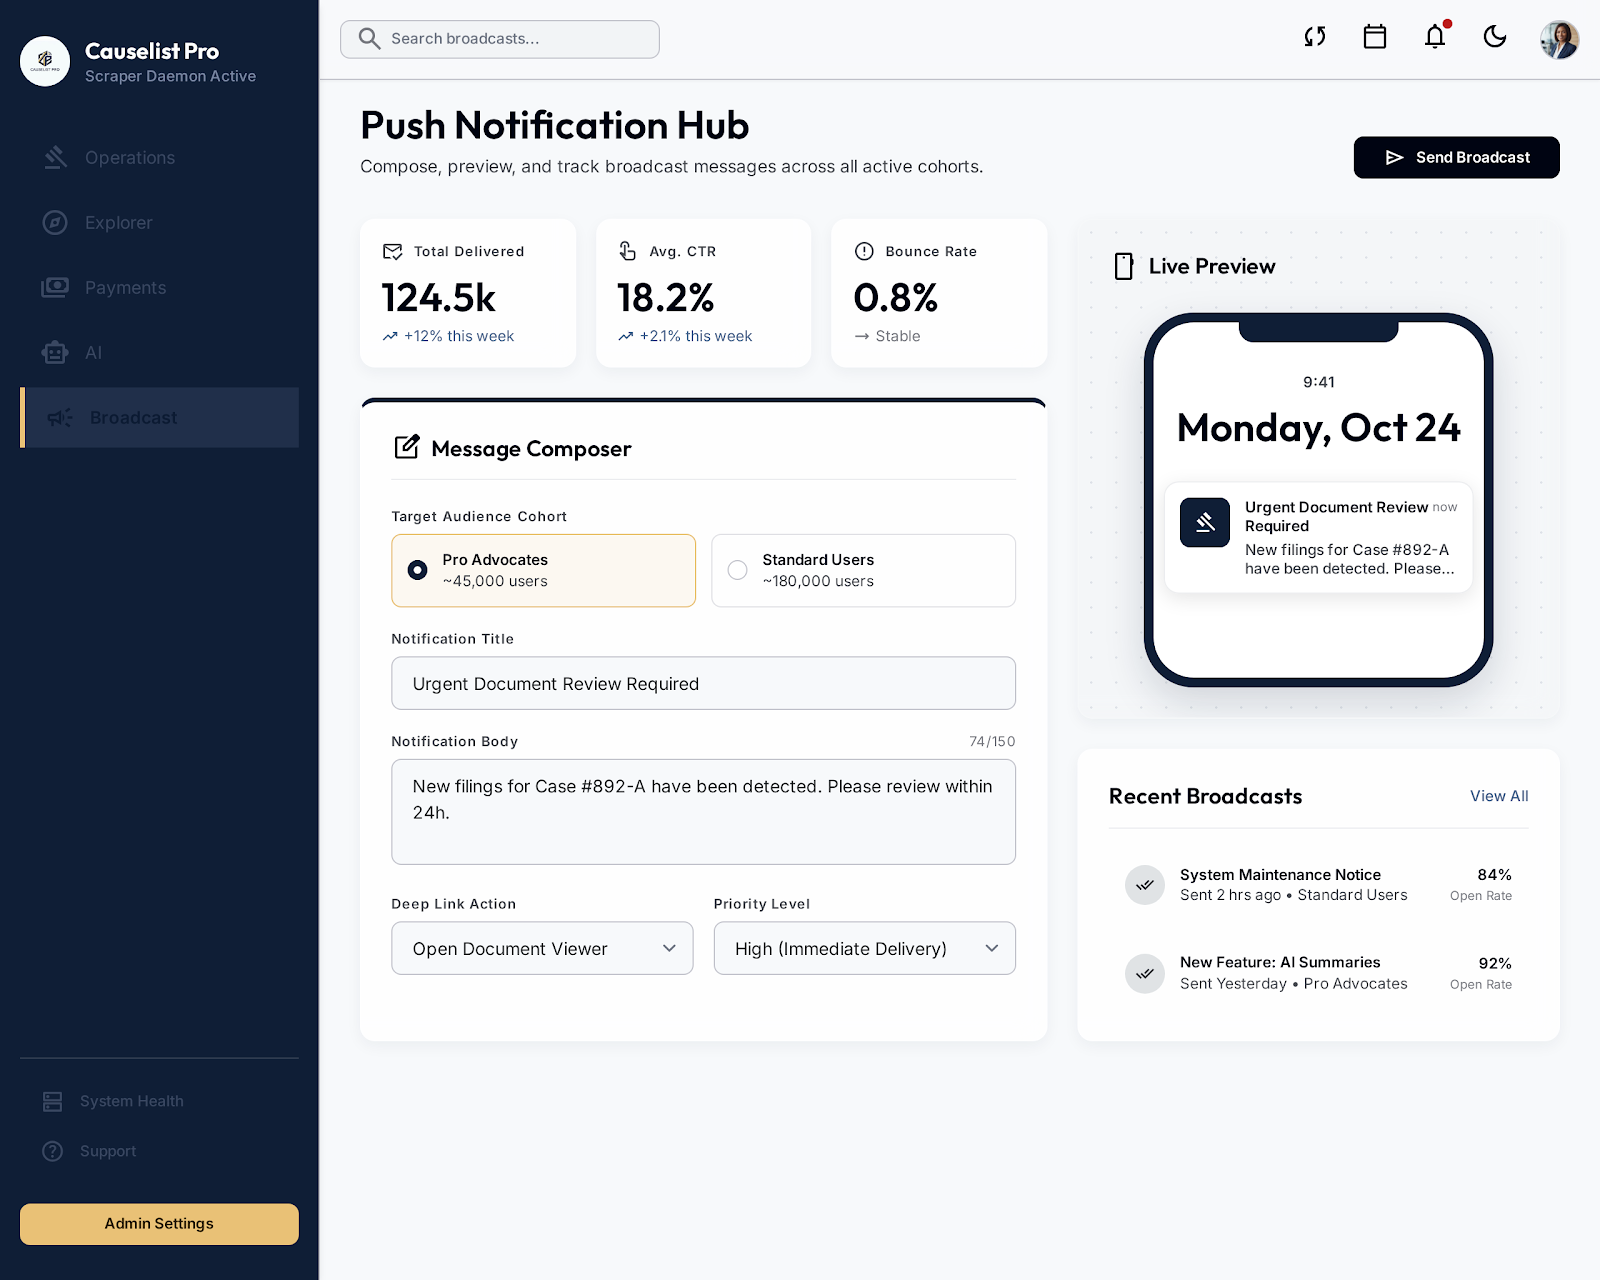
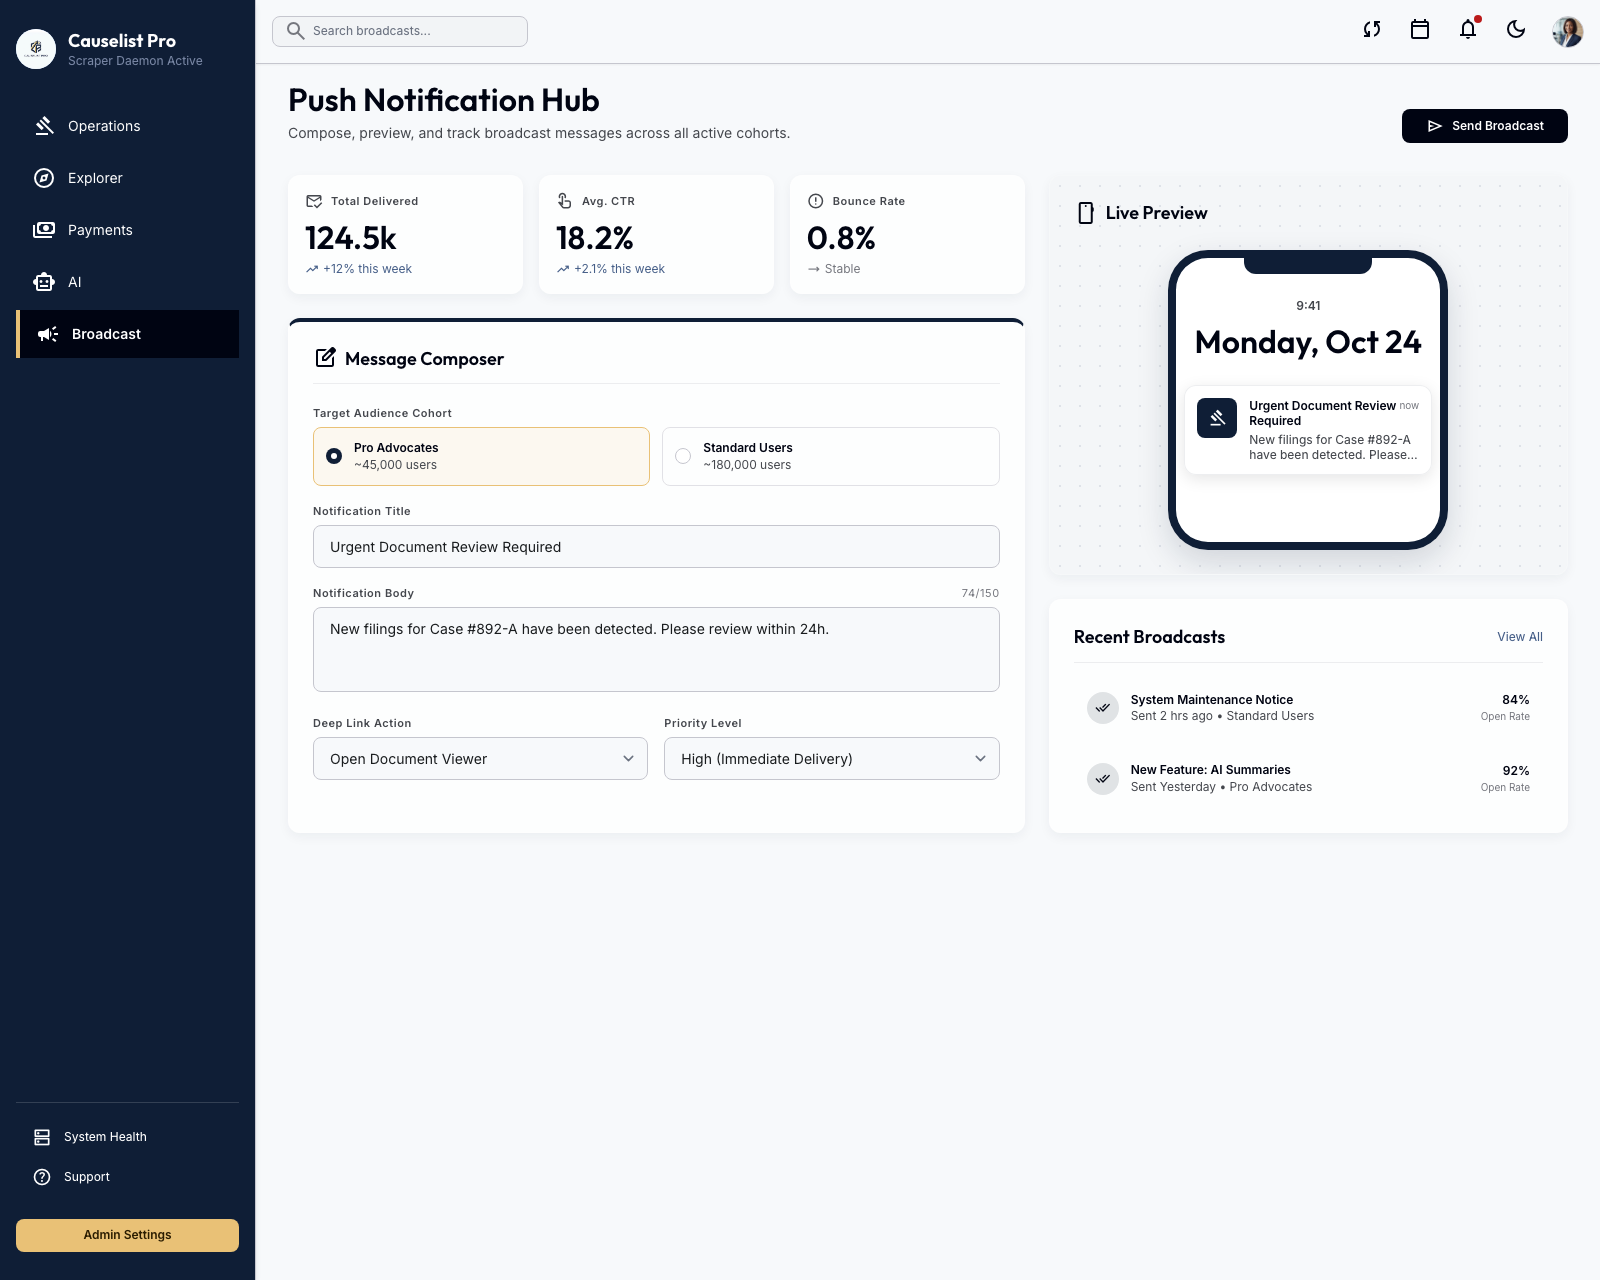
Replace CauseList Pro admin screenshots with fixed-visibility set
Sidebar menu text was near-invisible in the previous captures; swap in
the regenerated screens (explorer, operations dashboard, payments, AI
knowledge, broadcast hub) and update the operations screen caption.

Claude-Session: https://claude.ai/code/session_01RwL3MrSiHnUKU6UHbZbKBM

diff --git a/lib/projects.ts b/lib/projects.ts
@@ -232,12 +232,12 @@ export const caseStudies: CaseStudy[] = [
         screens: [
           {
             src: '/projects/causelist-scraper-ops.png',
-            alt: 'Scraper operations health dashboard',
+            alt: 'Scraper operations and system health dashboard',
             label: 'scraper operations',
             caption:
-              'Scraper operations health — daemon status, run history, and per-division scrape monitoring.',
+              'Operations dashboard — scraper runs, division-by-division sync progress, and system health.',
             width: 1600,
-            height: 1285,
+            height: 1280,
           },
           {
             src: '/projects/causelist-payments.png',
